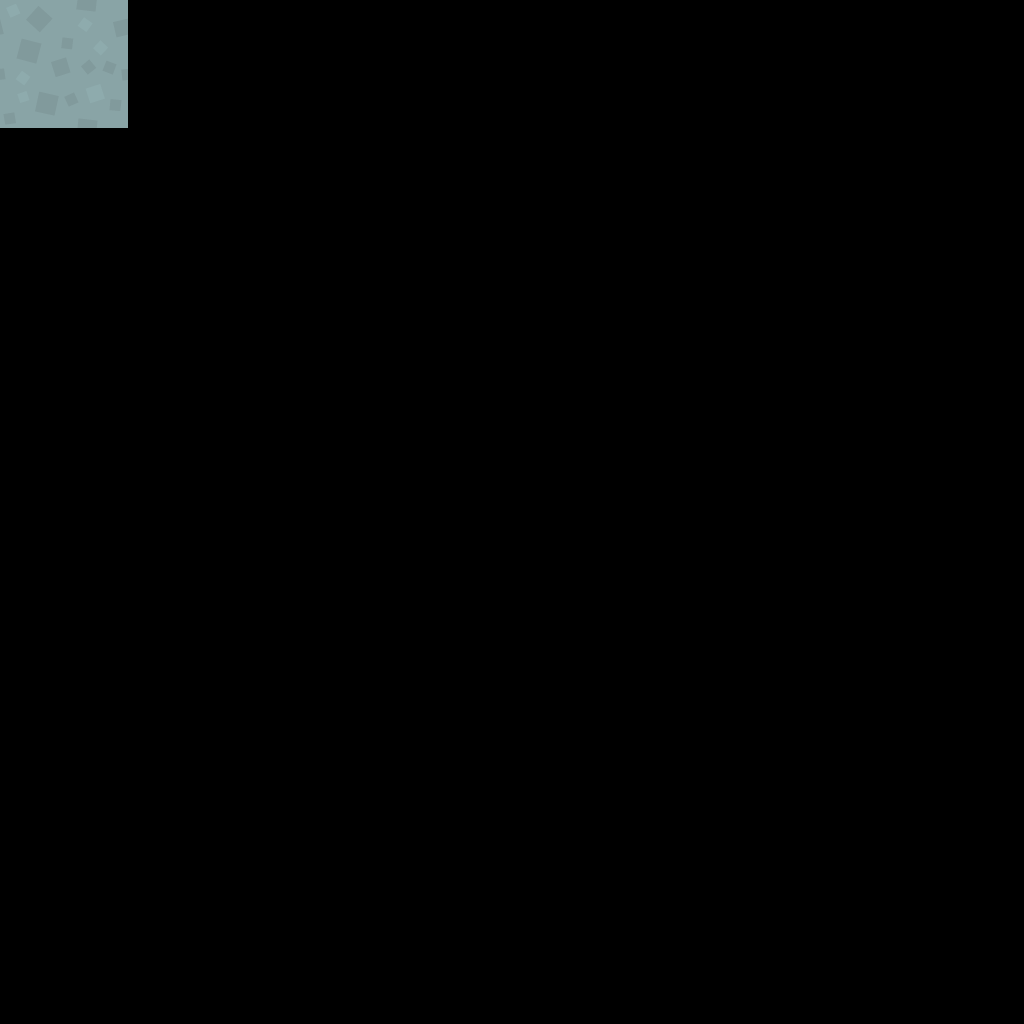
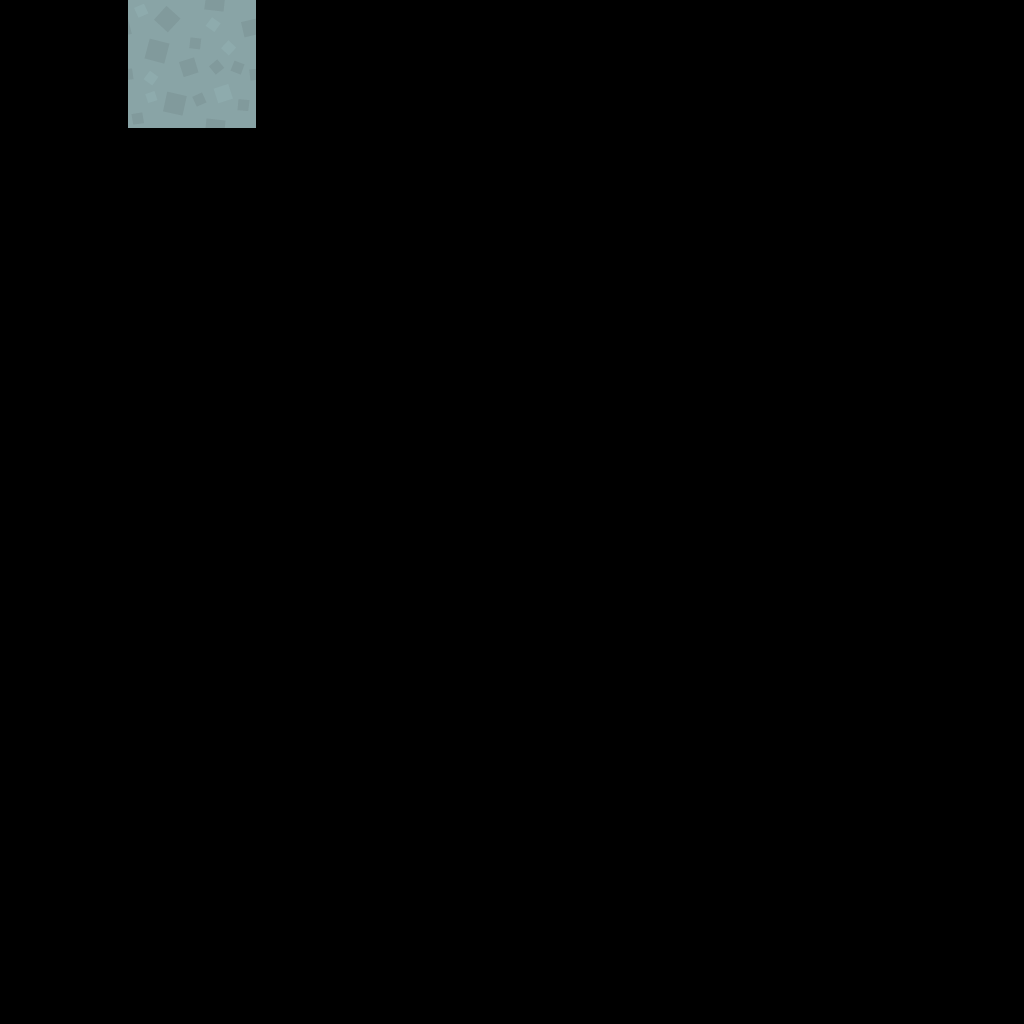
Texturing

Changed region(s): [[0.0, 0.0, 0.25, 0.125]]

diff --git a/chunkmesh.c b/chunkmesh.c
@@ -4,21 +4,19 @@
 void push_face(mesh_t * mesh, vec3_t v0, vec3_t v1, vec3_t v2, vec3_t v3,
 			   vec3_t norm, int type)
 {
-	(void) type;
-	vec2_t top_right = { 0.0f, 0.0f },
-	  top_left = { 1.0f, 0.0f },
-	  bottom_left = { 0.0f, 1.0f }, bottom_right = { 1.0f, 1.0f };
+	vec2_t uv_corners[4];
+	get_tex_quad(mesh->texture, type, 128, uv_corners);
 
-	mesh_push_vertex(mesh, v0, top_left, norm);
-	mesh_push_vertex(mesh, v1, top_right, norm);
-	mesh_push_vertex(mesh, v2, bottom_left, norm);
+	mesh_push_vertex(mesh, v0, uv_corners[UV_TOP_LEFT], norm);
+	mesh_push_vertex(mesh, v1, uv_corners[UV_TOP_RIGHT], norm);
+	mesh_push_vertex(mesh, v2, uv_corners[UV_BOTTOM_LEFT], norm);
 	//--
-	mesh_push_vertex(mesh, v3, bottom_right, norm);
-	mesh_push_vertex(mesh, v2, bottom_left, norm);
-	mesh_push_vertex(mesh, v1, top_right, norm);
+	mesh_push_vertex(mesh, v3, uv_corners[UV_BOTTOM_RIGHT], norm);
+	mesh_push_vertex(mesh, v2, uv_corners[UV_BOTTOM_LEFT], norm);
+	mesh_push_vertex(mesh, v1, uv_corners[UV_TOP_RIGHT], norm);
 }
 
-void generate_chunk_mesh(Chunk * chunk, Map * map)
+void generate_chunk_mesh(Chunk * chunk, Map * map, Texture * tilemap)
 {
 	if (chunk->mesh) {
 		mesh_terminate(chunk->mesh);
@@ -26,6 +24,8 @@ void generate_chunk_mesh(Chunk * chunk, Map * map)
 		chunk->mesh = calloc(sizeof(mesh_t), 1);
 	}
 	resize_mesh(chunk->mesh, 512);
+	chunk->mesh->texture = tilemap;
+
 	vec3_t vertices[(CHUNK_SIZE + 1) * (CHUNK_SIZE + 1) * (CHUNK_SIZE + 1)];
 	for (int i = 0; i <= CHUNK_SIZE; ++i) {
 		for (int j = 0; j <= CHUNK_SIZE; ++j) {

diff --git a/texture.c b/texture.c
@@ -9,6 +9,10 @@ bool load_texture(Texture * texture, const char *path)
 		INFO("Could not load texture from path '%s'\n", path);
 		return false;
 	}
+	if (surface->w != surface->h) {
+		WARN("Texture '%s' is not a square\n", path);
+	}
+	texture->size = surface->w;
 	glGenTextures(1, &texture->index);
 	glBindTexture(GL_TEXTURE_2D, texture->index);
 	glTexImage2D(GL_TEXTURE_2D, 0, GL_RGBA, surface->w, surface->h, 0, GL_RGBA,
@@ -18,4 +22,15 @@ bool load_texture(Texture * texture, const char *path)
 	glGenerateMipmap(GL_TEXTURE_2D);
 	SDL_FreeSurface(surface);
 	return true;
+}
+
+void get_tex_quad(Texture * texture, int index, int quad_size,
+				  vec2_t corners[4])
+{
+	int tex_grid_size = texture->size / quad_size;
+	int quad_y = index / tex_grid_size, quad_x = index % tex_grid_size;
+	corners[UV_TOP_LEFT] = vec2(quad_x, quad_y);
+	corners[UV_TOP_RIGHT] = vec2(quad_x + 1, quad_y);
+	corners[UV_BOTTOM_LEFT] = vec2(quad_x, quad_y + 1);
+	corners[UV_BOTTOM_RIGHT] = vec2(quad_x + 1, quad_y + 1);
 }

diff --git a/program.c b/program.c
@@ -28,8 +28,10 @@ program_t program_new(const char *vs_path, const char *fs_path)
 	glGetShaderiv(vs_id, GL_COMPILE_STATUS, &compiled);
 
 	if (compiled == GL_FALSE) {
-		/* TODO: Make this more detailed, like in Mankind 2. */
-		FATAL("Couldn't compile vertex shader.");
+		char error_txt[1024];
+		int max_length = 1024;
+		glGetShaderInfoLog(vs_id, 1024, &max_length, error_txt);
+		FATAL("Couldn't compile vertex shader.\n%s", error_txt);
 	}
 
 	/* Then, load the fragment shader. */
@@ -54,8 +56,10 @@ program_t program_new(const char *vs_path, const char *fs_path)
 	glGetShaderiv(fs_id, GL_COMPILE_STATUS, &compiled);
 
 	if (compiled == GL_FALSE) {
-		/* TODO: Make this more detailed, like in Mankind 2. */
-		FATAL("Couldn't compile fragment shader.");
+		char error_txt[1024];
+		int max_length = 1024;
+		glGetShaderInfoLog(fs_id, 1024, &max_length, error_txt);
+		FATAL("Couldn't compile fragment shader.\n%s", error_txt);
 	}
 
 	/* And now, create the program. */

diff --git a/utilities.h b/utilities.h
@@ -1,7 +1,13 @@
 #pragma once
 
-#define INFO(fmt, args...) (fprintf (stderr, "\x1B[34m%s:%d:%s(): " fmt "\x1B[0m\n", __FILE__, __LINE__, __func__, ##args))
-#define FATAL(fmt, args...) (fprintf (stderr, "\x1B[31m%s:%d:%s(): " fmt "\x1B[0m\n", __FILE__, __LINE__, __func__, ##args), exit (-1))
+#define COLOR_BLUE     "\x1B[34m"
+#define COLOR_RED      "\x1B[31m"
+#define COLOR_YELLOW   "\x1B[33m"
+#define COLOR_RESET    "\x1B[0m"
+
+#define INFO(fmt, args...) (fprintf (stderr, COLOR_BLUE "%s:%d:%s(): " COLOR_RESET fmt "\n", __FILE__, __LINE__, __func__, ##args))
+#define WARN(fmt, args...) (fprintf (stderr, COLOR_YELLOW "%s:%d:%s(): " COLOR_RESET fmt "\n", __FILE__, __LINE__, __func__, ##args), exit (-1))
+#define FATAL(fmt, args...) (fprintf (stderr, COLOR_RED "%s:%d:%s(): " COLOR_RESET fmt "\n", __FILE__, __LINE__, __func__, ##args), exit (-1))
 
 typedef struct vec2_t {
 	float x, y;

diff --git a/engine.c b/engine.c
@@ -27,13 +27,13 @@ engine_t *engine_new()
 
 	engine->program =
 	  program_new("./resources/default.vs", "./resources/default.fs");
+	load_texture(&engine->tilemap, "gfx/tilemap.png");
 
 	Chunk *chunk = new_Chunk(&engine->map, 0, 0, 0);
 	randomly_populate(chunk);
-	generate_chunk_mesh(chunk, &engine->map);
+	generate_chunk_mesh(chunk, &engine->map, &engine->tilemap);
 	engine->mesh = chunk->mesh;
 
-	load_texture(&engine->tilemap, "gfx/tilemap.png");
 
 	engine->last_time = SDL_GetPerformanceCounter();
 	engine->running = true;

diff --git a/texture.h b/texture.h
@@ -5,8 +5,21 @@
 #include <SDL2/SDL.h>
 #include <stdbool.h>
 
+#include "utilities.h"
+
+typedef enum {
+	UV_TOP_LEFT = 0,
+	UV_TOP_RIGHT = 1,
+	UV_BOTTOM_LEFT = 2,
+	UV_BOTTOM_RIGHT = 3
+} UVCorner;
+
 typedef struct {
 	GLuint index;
+	int size;					// All texture are assumed to be be square
 } Texture;
 
 bool load_texture(Texture * texture, const char *path);
+
+void get_tex_quad(Texture * texture, int index, int quad_size,
+				  vec2_t corners[4]);

diff --git a/chunkmesh.h b/chunkmesh.h
@@ -1,9 +1,10 @@
 #pragma once
 #include "map.h"
+#include "texture.h"
 
 #define INDEX(x, y, z) ((x) * (CHUNK_SIZE+1) * (CHUNK_SIZE+1) + (y) * (CHUNK_SIZE+1) + (z))
 
 void push_face(mesh_t * mesh, vec3_t v0, vec3_t v1, vec3_t v2, vec3_t v3,
 			   vec3_t norm, int type);
 
-void generate_chunk_mesh(Chunk * chunk, Map * map);
+void generate_chunk_mesh(Chunk * chunk, Map * map, Texture * tilemap);

diff --git a/mesh.h b/mesh.h
@@ -2,6 +2,7 @@
 
 #include "graphx.h"
 #include "utilities.h"
+#include "texture.h"
 
 typedef struct mesh_t {
 	GLuint vao, vbo, nbo, uvbo, ebo;
@@ -10,6 +11,7 @@ typedef struct mesh_t {
 	vec3_t *vertices, *normals;
 	vec2_t *uvs;
 	GLuint *indices;
+	Texture *texture;
 } mesh_t;
 
 mesh_t mesh_new(vec3_t * vertices, vec3_t * normals, vec2_t * uvs,

diff --git a/mesh.c b/mesh.c
@@ -61,6 +61,9 @@ void mesh_load(mesh_t * mesh)
 
 void mesh_render(mesh_t * mesh)
 {
+	glActiveTexture(GL_TEXTURE0);
+	glBindTexture(GL_TEXTURE_2D, mesh->texture->index);
+
 	glBindVertexArray(mesh->vao);
 	glBindBuffer(GL_ELEMENT_ARRAY_BUFFER, mesh->ebo);
 
